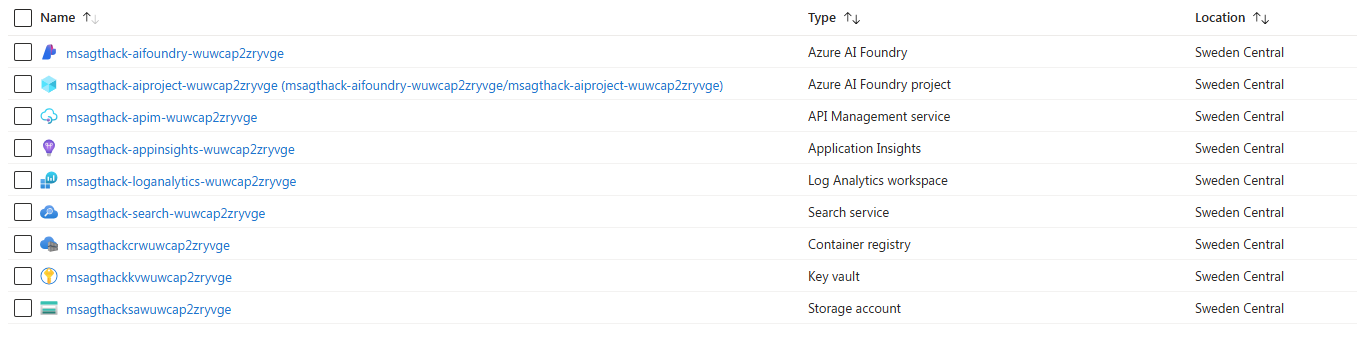
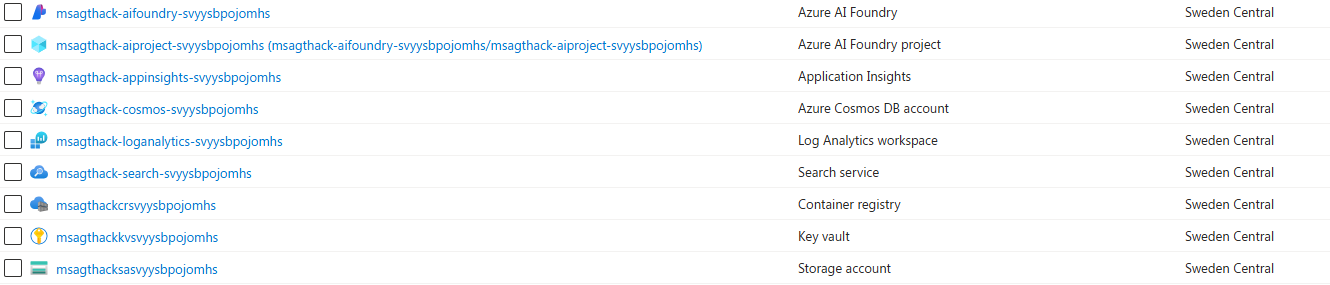
adapted readme

diff --git a/challenge-0/README.md b/challenge-0/README.md
@@ -7,11 +7,25 @@ Welcome to your very first challenge! Your goal in this challenge is to create t
 If something is not working correctly, please do let your coach know!
 
 
-## 1.1 Preparation
+## 1.1 Fork the Repository
 
 Before you start, please fork this repository to your GitHub account by clicking the `Fork` button in the upper right corner of the repository's main screen (or follow the [documentation](https://docs.github.com/en/pull-requests/collaborating-with-pull-requests/working-with-forks/fork-a-repo#forking-a-repository)). This will allow you to make changes to the repository and save your progress.
 
-## 1.2 Resource Deployment Guide
+
+## 1.2 Development Environment
+
+GitHub Codespaces is a cloud-based development environment that allows you to code from anywhere. It provides a fully configured environment that can be launched directly from any GitHub repository, saving you from lengthy setup times. You can access Codespaces from your browser, Visual Studio Code, or the GitHub CLI, making it easy to work from virtually any device.
+
+To open GitHub Codespaces, click on the button below:
+
+[![Open in GitHub Codespaces](https://github.com/codespaces/badge.svg)](https://codespaces.new/)
+
+Please select your forked repository from the dropdown and, if necessary, adjust other settings of GitHub Codespace.
+
+**NOTE:** If GitHub Codespaces is not enabled in your organization, you can enable it by following the instructions [here](https://docs.github.com/en/codespaces/managing-codespaces-for-your-organization/enabling-or-disabling-github-codespaces-for-your-organization), or, if you cannot change your GitHub organization's settings, create a free personal GitHub account [here](https://github.com/signup?ref_cta=Sign+up&ref_loc=header+logged+out&ref_page=%2F&source=header-home). The Github Free Plan includes 120 core hours per month, equivalent to 60 hours on a 2-core machine, along with 15 GB of storage.
+
+
+## 1.3 Resource Deployment Guide
 The first step on this hackathon will be to create the resources we will use throughout the day. You can deploy using either the one-click button or manual method below.
 
 Before anything else, let's log in into the CLI with our account. Please paste the code underneath and follow the necessary instructions.
@@ -21,20 +35,20 @@ az login --use-device-code
 ```
 
 
-## 1.2.1 Service Principal Setup 
+## 1.3.1 Service Principal Setup 
 
 To enable automated access to AI services, you need to create an Azure AD app registration and service principal.
 
 Run the following command to create both and extract the client ID and object ID:
 
 ```bash
-./create-app-registration.sh YOUR_APP_NAME
+cd challenge-0 && ./create-app-registration.sh YOUR_APP_NAME
 ```
 
 Replace YOUR_APP_NAME with a unique name for your app registration (e.g., hackathon-yourinitials).
 The script will output the Client ID and Object ID.
 
-## 1.2.2 Resources Deployment
+## 1.3.2 Resources Deployment
 
 Now, time to deploy our resources to Azure!
 
@@ -42,6 +56,7 @@ Now, time to deploy our resources to Azure!
 
 **Deployment Parameters:**
 - **servicePrincipalObjectId**: If you completed the service principal setup above, paste the Object ID here. Otherwise, leave this field empty.
+- **resource group** Introduce an unique name for your resource group (e.g., rg-yourinitials).
 - **Other parameters**: You can use the default values or customize them as needed.
 
 > **Note:** The **servicePrincipalObjectId** parameter is optional and only needed if you plan to use Azure Functions in Challenge 5 with service principal authentication. If you didn't complete the service principal setup above, simply leave this parameter empty during deployment.
@@ -56,23 +71,11 @@ Now, time to deploy our resources to Azure!
 
 **NOTE:** Some parts of your deployment may fail if the resource provider `Microsoft.AlertsManagement` is not registered in your. Follow the [documentation](https://learn.microsoft.com/en-us/azure/azure-resource-manager/management/resource-providers-and-types#register-resource-provider-1) to register it and the re-run the deployment.
 
-Resource deployment can take up to 5 minutes, afterwards you'll be able to find most of the resources on your resource group. In the meantime, you can proceed with the next step - opening a pre-configured development environment in GitHub Codespaces.
-
-## 1.3 Development Environment
-
-GitHub Codespaces is a cloud-based development environment that allows you to code from anywhere. It provides a fully configured environment that can be launched directly from any GitHub repository, saving you from lengthy setup times. You can access Codespaces from your browser, Visual Studio Code, or the GitHub CLI, making it easy to work from virtually any device.
-
-To open GitHub Codespaces, click on the button below:
-
-[![Open in GitHub Codespaces](https://github.com/codespaces/badge.svg)](https://codespaces.new/)
-
-Please select your forked repository from the dropdown and, if necessary, adjust other settings of GitHub Codespace.
-
-**NOTE:** If GitHub Codespaces is not enabled in your organization, you can enable it by following the instructions [here](https://docs.github.com/en/codespaces/managing-codespaces-for-your-organization/enabling-or-disabling-github-codespaces-for-your-organization), or, if you cannot change your GitHub organization's settings, create a free personal GitHub account [here](https://github.com/signup?ref_cta=Sign+up&ref_loc=header+logged+out&ref_page=%2F&source=header-home). The Github Free Plan includes 120 core hours per month, equivalent to 60 hours on a 2-core machine, along with 15 GB of storage.
+Resource deployment can take up to 10 minutes, afterwards you'll be able to find most of the resources on your resource group. In the meantime, you can proceed with the next step - opening a pre-configured development environment in GitHub Codespaces.
 
 ## 1.4 Verify the creation of your resources
 
-Go back to your `Azure Portal` and find your `Resource Group`that should by now contain 10 resources and look like this:
+Go back to your `Azure Portal` and find your `Resource Group`that should by now contain 9 resources and look like this:
 
 ![alt text](image.png)
 
@@ -81,13 +84,12 @@ After deploying the resources, you will need to configure the environment variab
 
 **Then run the get-keys script with your resource group name:**
 ```bash
-cd challenge-0 && ./get-keys.sh --resource-group YOUR_RESOURCE_GROUP_NAME
+./get-keys.sh --resource-group YOUR_RESOURCE_GROUP_NAME
 ```
 
-Replace `YOUR_RESOURCE_GROUP_NAME` with the actual name from the first command.
+Replace `YOUR_RESOURCE_GROUP_NAME` with the actual name of the resource group created on step 1.3.2.
 
 This script will connect to Azure and fetch the necessary keys and populate the `.env` file with the required values in the root directory of the repository.
-
 
 ## 1.6 Verify `.env` setup
 
